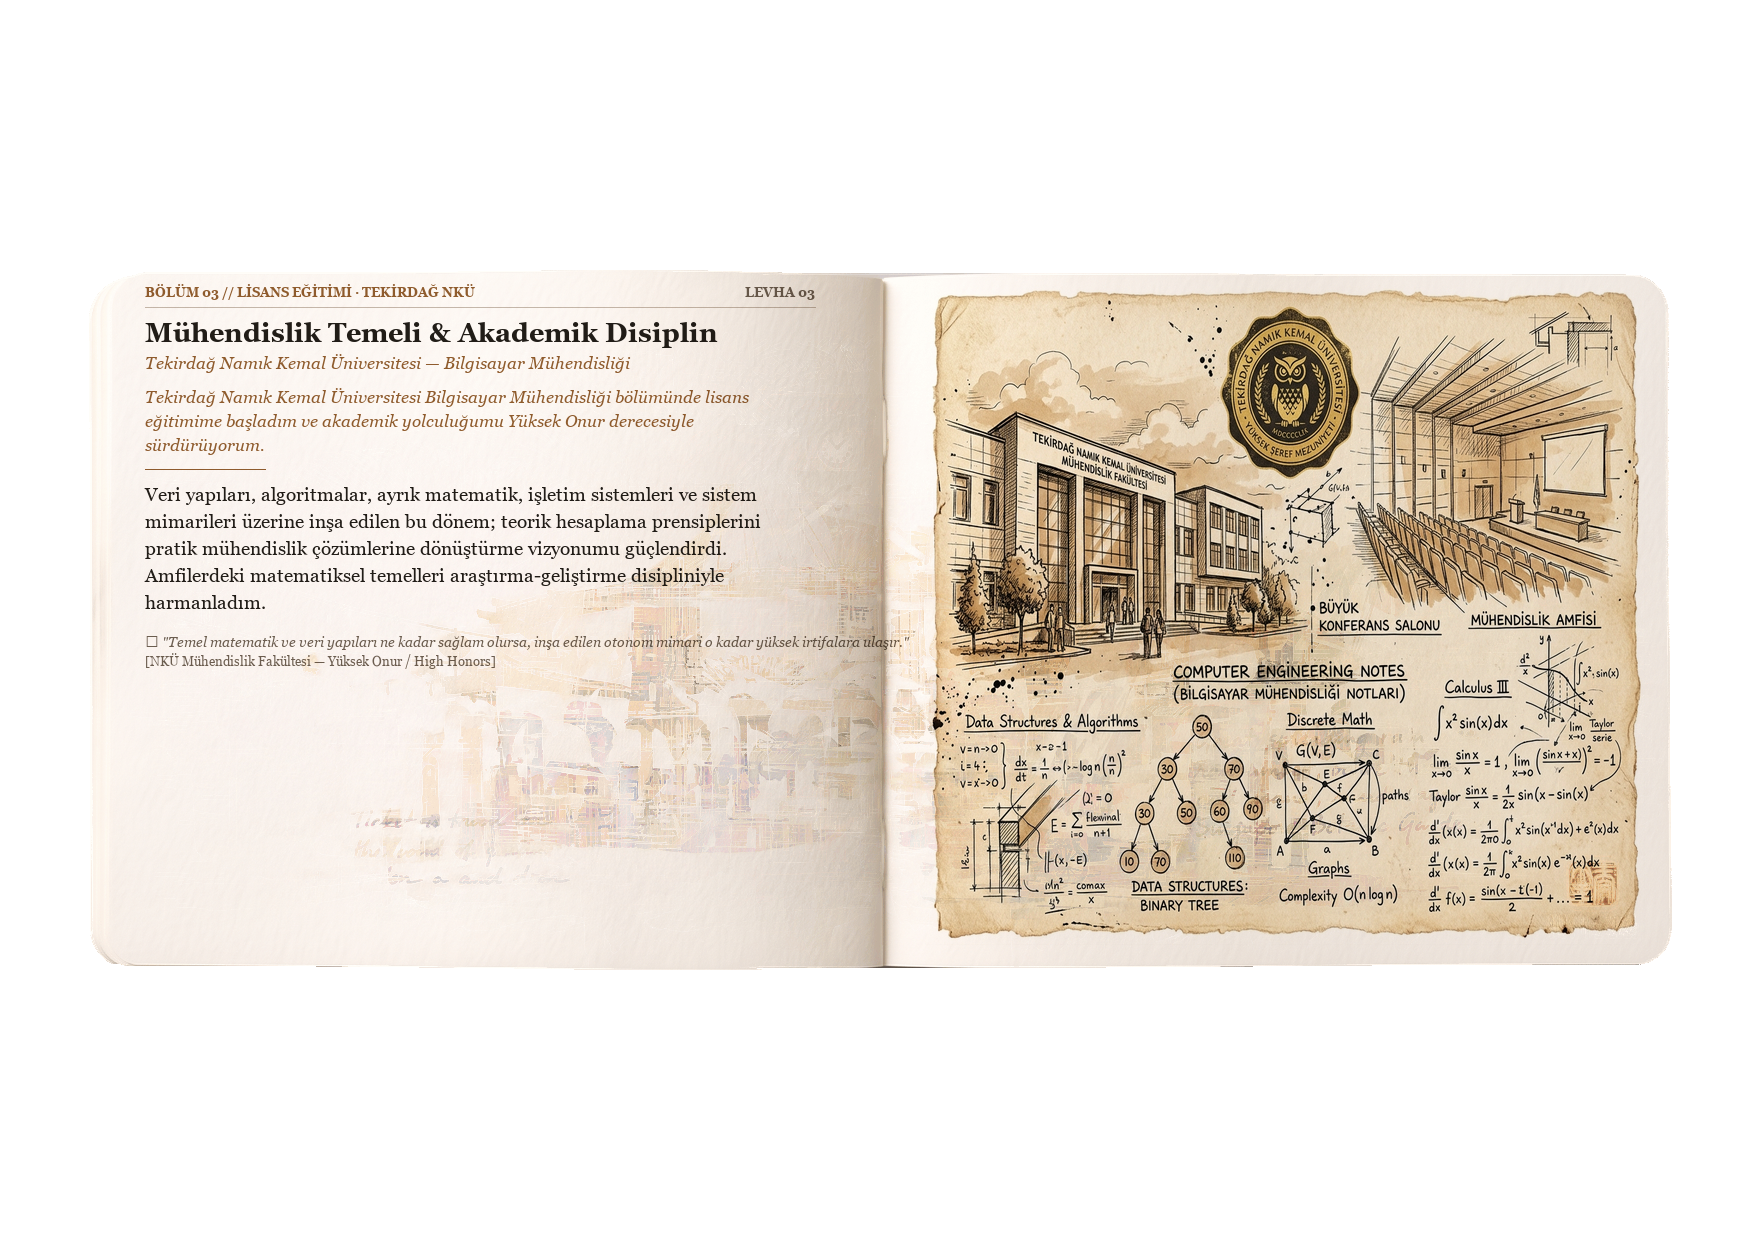
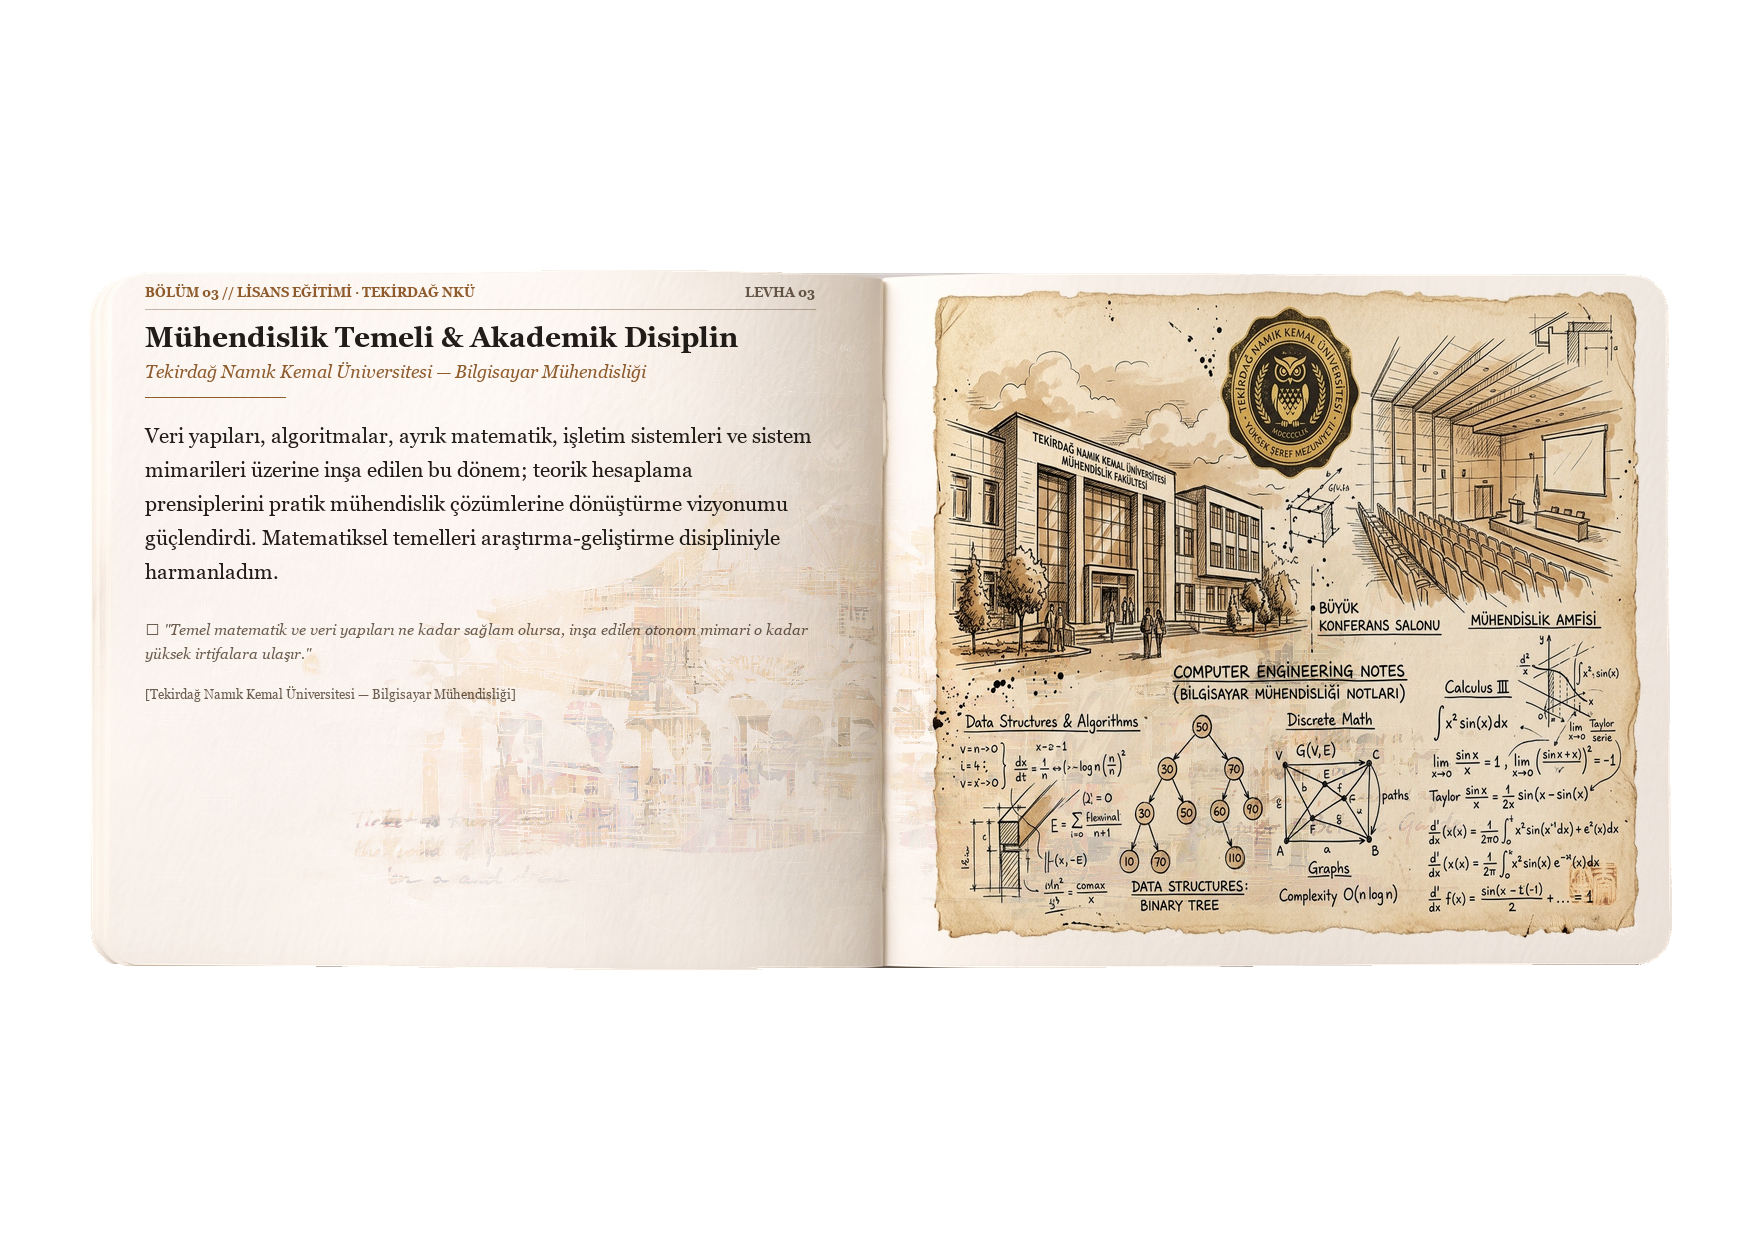
feat(sketchbook): update university page 03 texts, remove honors lead and polish body

Changed region(s): [[0.0625, 0.2452, 0.4688, 0.5823]]

diff --git a/public/landing-pages/meng-to-sketchbook.html b/public/landing-pages/meng-to-sketchbook.html
@@ -673,7 +673,7 @@ const DIR='meng-to-sketchbook/';
 const PAGES_TR=[
   {file:'marina-bay-sands.png',   title:'3 Yaş: İlk Bilgisayar & Oyunlar',     place:'Dijital Dünyayla İlk Karşılaşma'},
   {file:'gardens-by-the-bay.png', title:'Kırımlı Fazilet Olcay A.L.',          place:'Lise Yılları · Makinelerin Derin Yetenekleri'},
-  {file:'merlion.png',            title:'Tekirdağ Namık Kemal Üniversitesi',   place:'Bilgisayar Mühendisliği — Yüksek Onur Derecesi'},
+  {file:'merlion.png',            title:'Tekirdağ Namık Kemal Üniversitesi',   place:'Bilgisayar Mühendisliği'},
   {file:'buddha-tooth.png',       title:'Martur Fompak International',         place:'Şirket İçi Kurumsal Yapay Zeka Sistemleri'},
   {file:'joo-chiat.png',          title:'Görüntü İşleme & Gazebo Harmonic',    place:'Piksel Mimarileri, OpenCV & 3D Simülasyon'},
   {file:'lau-pa-sat.png',         title:'Şahi Otonom SİHA Takımı',            place:'TEKNOFEST Savaşan İHA · Yazılım Ekip Lideri'},
@@ -685,7 +685,7 @@ const PAGES_TR=[
 const PAGES_EN=[
   {file:'marina-bay-sands.png',   title:'Age 3: First PC & Games',             place:'First Digital Encounter'},
   {file:'gardens-by-the-bay.png', title:'Kırımlı Fazilet Olcay High School',   place:'Awakening to Deep Machine Capabilities'},
-  {file:'merlion.png',            title:'Tekirdağ Namık Kemal University',     place:'Computer Engineering — High Honors Degree'},
+  {file:'merlion.png',            title:'Tekirdağ Namık Kemal University',     place:'Computer Engineering'},
   {file:'buddha-tooth.png',       title:'Martur Fompak International',         place:'Internal Enterprise AI & Multi-Agent Systems'},
   {file:'joo-chiat.png',          title:'Computer Vision & Gazebo Harmonic',   place:'Pixel Tensors, OpenCV & 3D Simulation'},
   {file:'lau-pa-sat.png',         title:'Şahi Autonomous UAV Team',            place:'TEKNOFEST Fighting UAV · Software Team Lead'},

diff --git a/scratch/build_spread_03_university.py b/scratch/build_spread_03_university.py
@@ -1,0 +1,106 @@
+import os
+from PIL import Image, ImageDraw, ImageFont
+import numpy as np
+
+SPREAD_BASE = r'scratch/clean_paper_spread.png'
+OUT_FINAL = r'public/landing-pages/meng-to-sketchbook/merlion.png'
+ILLUS_PATH = r'C:\Users\dloozi\.gemini\antigravity-cli\brain\af0d76d1-4e98-4245-9246-8ea4316a204d\plate02_university_1789635671917.jpg'
+
+spread = Image.open(SPREAD_BASE).convert('RGBA')
+spread_arr = np.array(spread)
+alpha_orig = spread_arr[:, :, 3]
+
+# Crisp, elegant typography
+font_kicker = ImageFont.truetype(r'C:\Windows\Fonts\georgiab.ttf', 13)
+font_title = ImageFont.truetype(r'C:\Windows\Fonts\georgiab.ttf', 28)
+font_sub = ImageFont.truetype(r'C:\Windows\Fonts\georgiai.ttf', 18)
+font_body = ImageFont.truetype(r'C:\Windows\Fonts\georgia.ttf', 21)
+font_note = ImageFont.truetype(r'C:\Windows\Fonts\georgiai.ttf', 15)
+font_signature = ImageFont.truetype(r'C:\Windows\Fonts\georgia.ttf', 13)
+
+INK_DEEP = (34, 30, 25, 255)
+INK_FAINT = (110, 98, 85, 255)
+EARTH = (145, 95, 48, 255)
+RULE_COLOR = (175, 160, 145, 180)
+
+canvas = Image.new('RGBA', (1760, 1240), (0, 0, 0, 0))
+draw = ImageDraw.Draw(canvas)
+
+LX = 145
+LY = 285
+MAX_W = 670
+
+# 1. Kicker & Plate Number
+draw.text((LX, LY), 'BÖLÜM 03 // LİSANS EĞİTİMİ · TEKİRDAĞ NKÜ', font=font_kicker, fill=EARTH)
+draw.text((LX + MAX_W - 70, LY), 'LEVHA 03', font=font_kicker, fill=INK_FAINT)
+draw.line([(LX, LY + 24), (LX + MAX_W, LY + 24)], fill=RULE_COLOR, width=1)
+
+# 2. Title & Subtitle
+draw.text((LX, LY + 36), 'Mühendislik Temeli & Akademik Disiplin', font=font_title, fill=INK_DEEP)
+draw.text((LX, LY + 76), 'Tekirdağ Namık Kemal Üniversitesi — Bilgisayar Mühendisliği', font=font_sub, fill=EARTH)
+draw.line([(LX, LY + 112), (LX + 140, LY + 112)], fill=EARTH, width=1)
+
+# 3. Main Body Text
+# Omitted the previous lead with 'yüksek onur'
+# Removed 'amfilerde' from the second sentence
+body_text = (
+    'Veri yapıları, algoritmalar, ayrık matematik, işletim sistemleri ve sistem mimarileri '
+    'üzerine inşa edilen bu dönem; teorik hesaplama prensiplerini pratik mühendislik çözümlerine '
+    'dönüştürme vizyonumu güçlendirdi. Matematiksel temelleri araştırma-geliştirme disipliniyle harmanladım.'
+)
+
+def wrap_text(text, font, max_width, d):
+    words = text.split(' ')
+    lines = []
+    cur = words[0]
+    for w in words[1:]:
+        test = cur + ' ' + w
+        bbox = d.textbbox((0, 0), test, font=font)
+        if bbox[2] - bbox[0] <= max_width:
+            cur = test
+        else:
+            lines.append(cur)
+            cur = w
+    lines.append(cur)
+    return lines
+
+curr_y = LY + 138
+for line in wrap_text(body_text, font_body, MAX_W, draw):
+    draw.text((LX, curr_y), line, font=font_body, fill=INK_DEEP)
+    curr_y += 34
+
+curr_y += 28
+note_text = '✦ "Temel matematik ve veri yapıları ne kadar sağlam olursa, inşa edilen otonom mimari o kadar yüksek irtifalara ulaşır."'
+for line in wrap_text(note_text, font_note, MAX_W, draw):
+    draw.text((LX, curr_y), line, font=font_note, fill=INK_FAINT)
+    curr_y += 24
+
+curr_y += 18
+signature_text = '[Tekirdağ Namık Kemal Üniversitesi — Bilgisayar Mühendisliği]'
+draw.text((LX, curr_y), signature_text, font=font_signature, fill=INK_FAINT)
+
+# 4. Right Page Illustration (University campus and robotics/logic plate)
+if os.path.exists(ILLUS_PATH):
+    im_illus = Image.open(ILLUS_PATH).convert('RGBA')
+    im_resized = im_illus.resize((720, 660), Image.Resampling.LANCZOS)
+    canvas.paste(im_resized, (925, 285))
+
+# 5. Composite with Multiply Blend
+canvas_arr = np.array(canvas)
+out_arr = np.zeros_like(spread_arr)
+
+base_rgb = spread_arr[:, :, :3].astype(float)
+canvas_rgb = canvas_arr[:, :, :3].astype(float)
+canvas_alpha = canvas_arr[:, :, 3].astype(float) / 255.0
+
+for c in range(3):
+    out_arr[:, :, c] = np.clip(
+        base_rgb[:, :, c] * (1.0 - canvas_alpha) + (base_rgb[:, :, c] * canvas_rgb[:, :, c] / 255.0) * canvas_alpha,
+        0, 255
+    ).astype(np.uint8)
+
+out_arr[:, :, 3] = alpha_orig
+
+res = Image.fromarray(out_arr, 'RGBA')
+res.save(OUT_FINAL)
+print(f'SUCCESS! Spread 03 (merlion.png) saved to {OUT_FINAL} ({os.path.getsize(OUT_FINAL)} bytes)')

diff --git a/scratch/build_all_spreads_v2.py b/scratch/build_all_spreads_v2.py
@@ -57,10 +57,10 @@ spreads_data = [
         'plate_num': 'LEVHA 03',
         'title': 'Mühendislik Temeli & Akademik Disiplin',
         'subtitle': 'Tekirdağ Namık Kemal Üniversitesi — Bilgisayar Mühendisliği',
-        'lead': 'Tekirdağ Namık Kemal Üniversitesi Bilgisayar Mühendisliği bölümünde lisans eğitimime başladım ve akademik yolculuğumu Yüksek Onur derecesiyle sürdürüyorum.',
-        'body': 'Veri yapıları, algoritmalar, ayrık matematik, işletim sistemleri ve sistem mimarileri üzerine inşa edilen bu dönem; teorik hesaplama prensiplerini pratik mühendislik çözümlerine dönüştürme vizyonumu güçlendirdi. Amfilerdeki matematiksel temelleri araştırma-geliştirme disipliniyle harmanladım.',
+        'lead': '',
+        'body': 'Veri yapıları, algoritmalar, ayrık matematik, işletim sistemleri ve sistem mimarileri üzerine inşa edilen bu dönem; teorik hesaplama prensiplerini pratik mühendislik çözümlerine dönüştürme vizyonumu güçlendirdi. Matematiksel temelleri araştırma-geliştirme disipliniyle harmanladım.',
         'note': '✦ "Temel matematik ve veri yapıları ne kadar sağlam olursa, inşa edilen otonom mimari o kadar yüksek irtifalara ulaşır."',
-        'signature': '[NKÜ Mühendislik Fakültesi — Yüksek Onur / High Honors]'
+        'signature': '[Tekirdağ Namık Kemal Üniversitesi — Bilgisayar Mühendisliği]'
     },
     {
         'file': 'buddha-tooth.png',
@@ -158,8 +158,8 @@ def wrap_text(text, font, max_width, draw):
 
 for s in spreads_data:
     dest_file = s['file']
-    if dest_file in ['marina-bay-sands.png', 'gardens-by-the-bay.png']:
-        # Managed with custom high-fidelity pipelines in scratch/build_spread_01_retro.py & build_spread_02_modern.py
+    if dest_file in ['marina-bay-sands.png', 'gardens-by-the-bay.png', 'merlion.png']:
+        # Managed with custom high-fidelity pipelines in scratch/build_spread_01_retro.py, build_spread_02_modern.py & build_spread_03_university.py
         continue
     illus_file = s['illus']
     dest_path = os.path.join(out_dir, dest_file)
